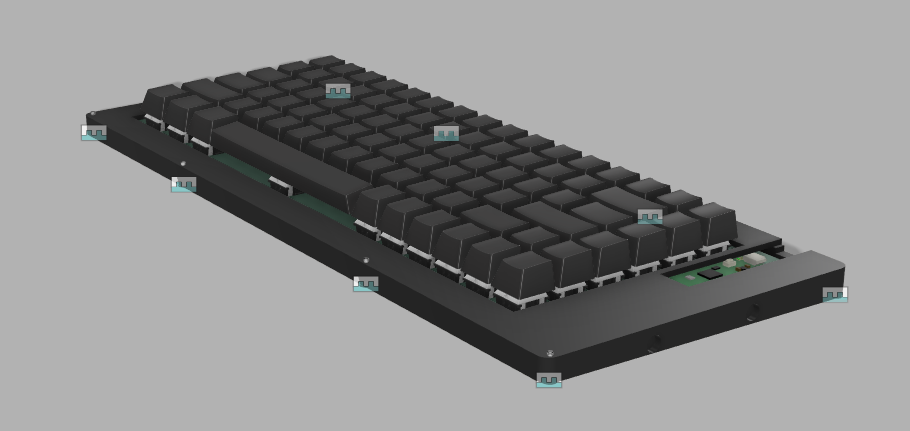
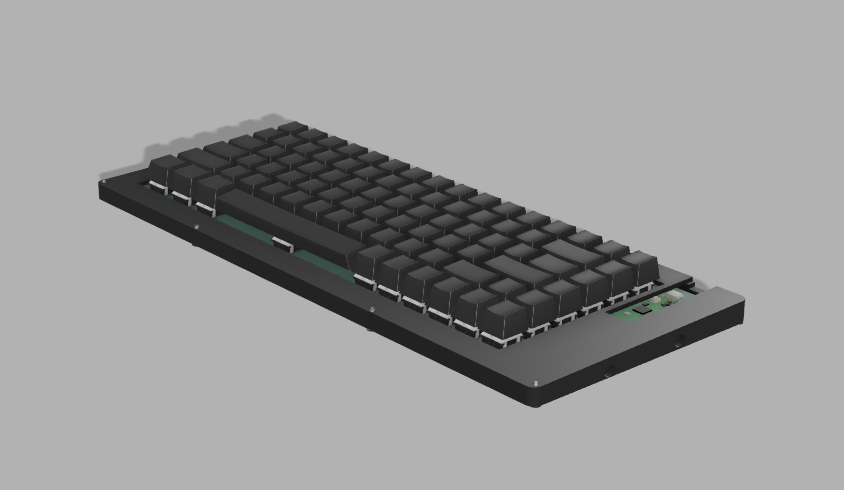
update readme structure and images

Changed region(s): [[0.0924, 0.1206, 0.955, 0.9049]]

diff --git a/README.md b/README.md
@@ -8,50 +8,61 @@ The numpad however is screwed in with the threads in the 3d print. This was not 
 For the magnetic attatchements, two 7mm magnets go in two the 7mm wide holes on BOTH the numpad and the main keyboard and is attatched to each part with some basic super glue. With this the two devices can seamlessly attatch and detach. The two components also have seperate microcontrollers, meaning two different usb connections into my pc. I chose this over having the numpad atatch into the main keyboard for first simple firmware and schematic design but also because it means I have a portable numpad.
 
 
-### Numpad Render
-![NumPad1](resources/numpad1.png)
-![Numpad2](resources/numpad2.png)
+### Renders
 
-### Main Keyboard Render
-![Main1](resources/main1.png)
-![Main2](resources/Main2.png)
+<table>
+  <tr>
+    <td><img src="resources/numpad1.png" width="500" alt="NumPad1"></td>
+    <td><img src="resources/numpad2.png" width="500" alt="Numpad2"></td>
+    <td><img src="resources/main1.png" width="500" alt="Main1"></td>
+  </tr>
+  <tr>
+    <td><img src="resources/Main2.png" width="500" alt="Main2"></td>
+    <td><img src="resources/fullassem.png" width="500" alt="Full Assembled Render"></td>
+  </tr>
+</table>
 
-### Full Assembled Render
-![alt text](resources/fullassem.png)
+### Schematic Designs
 
-### PCB Layout Pad
-![alt text](resources/padlayout.png)
+<table>
+  <tr>
+    <td><img src="resources/padschem.png" width="500" alt="Pad Schematic"></td>
+    <td><img src="resources/mainschem1.png" width="500" alt="Main Schematic 1"></td>
+    <td><img src="resources/mainschem2.png" width="500" alt="Main Schematic 2"></td>
+  </tr>
+</table>
 
-### Pad Schematic
-![alt text](resources/padschem.png)
+### PCBs
 
-### Main PCB Layout
-![alt text](resources/mainlayout.png)
+<table>
+  <tr>
+    <td><img src="resources/padlayout.png" width="500" alt="PCB Layout Pad"></td>
+    <td><img src="resources/mainlayout.png" width="500" alt="Main PCB Layout"></td>
+  </tr>
+</table>
 
-### Main Schematic
-![alt text](resources/mainschem1.png)
-![alt text](resources/mainschem2.png)
+### Orders
 
-### Main PCB Order
-![alt text](resources/mainpcborder.png)
+<table>
+  <tr>
+    <td><img src="resources/mainpcborder.png" width="500" alt="Main PCB Order"></td>
+    <td><img src="resources/PADPCBOrder.png" width="500" alt="PAD PCB Order"></td>
+  </tr>
+</table>
 
-### PAD PCB Order
-![alt text](resources/PADPCBOrder.png)
+## BOM
 
-### BOM
-|Item                                                                                                                            |Variation                                         |Qty|Price (USD)|Reference                                                                                                                                                                                                                                                                                                                                                                                                                                                                                                                                                                                                                            |
-|--------------------------------------------------------------------------------------------------------------------------------|--------------------------------------------------|---|-----------|-------------------------------------------------------------------------------------------------------------------------------------------------------------------------------------------------------------------------------------------------------------------------------------------------------------------------------------------------------------------------------------------------------------------------------------------------------------------------------------------------------------------------------------------------------------------------------------------------------------------------------------|
-|DUROCK Plate Mount Stabilizers V3, Innovative Pre-clipped Stem for Minimum Wire Wobble 2U 6.25U 7U Plate Keyboard Stabilizers V3|Color: V3 BS 4x2u 1x6.25u                         |1  | $7.65     |https://www.aliexpress.com/item/1005006528731543.html?spm=a2g0o.cart.0.0.4c3438dal21w6q&mp=1&pdp_npi=6%40dis%21AUD%21AUD+11.39%21AUD+11.39%21%21AUD+11.39%21%21%21%402103129017855613570607710e1021%2112000037543723481%21ct%21AU%21-1%21%211%210%21&pdp_ext_f=%7B%22cart2PdpParams%22%3A%7B%22pdpBusinessMode%22%3A%22retail%22%7D%7D                                                                                                                                                                                                                                                                                               |
-|110Pcs Outemu Switches for Mechanical Keyboard 3Pin Clicky Linear Tactile Silent Switch RGB LED SMD Gaming Mechan with MX Switch|Color: 110p DustProof Brown                       |1  | $29.54    |https://www.aliexpress.com/item/1005011976942889.html?spm=a2g0o.cart.0.0.4c3438dal21w6q&mp=1&pdp_npi=6%40dis%21AUD%21AUD+43.46%21AUD+3.08%21%21AUD+3.08%21%21%21%402103129017855613570607710e1021%2112000057186154978%21ct%21AU%21-1%21%211%210%21                                                                                                                                                                                                                                                                                                                                                                                   |
-|1N4148W                                                                                                                         |Diode Independent 100V 300mA Surface Mount SOD-123|150| $1.20     |https://www.lcsc.com/product-detail/C917030.html                                                                                                                                                                                                                                                                                                                                                                                                                                                                                                                                                                                     |
-|Original Raspberry Pi Pico Development Board,Pico or Pico H with Pin Header, support MciroPython/C++                            |                                                  |1  | $6.66     |https://www.aliexpress.com/item/1005008714908011.html?spm=a2g0o.cart.0.0.4c3438dal21w6q&mp=1&pdp_npi=6%40dis%21AUD%21AUD+9.78%21AUD+4.79%21%21AUD+4.79%21%21%21%402103129017855613570607710e1021%2112000046359830441%21ct%21AU%21-1%21%211%210%21                                                                                                                                                                                                                                                                                                                                                                                    |
-|SK6812MINI-EA                                                                                                                   |SMD-4P,3.2x2.8mm LED Addressable, Specialty RoHS  |100| $6.45     |https://www.lcsc.com/product-detail/C5378731.html                                                                                                                                                                                                                                                                                                                                                                                                                                                                                                                                                                                    |
-|XVX 119 Keys Black Transparent PC Keycaps 60/68/75/87/98/100 Mechanical Keyboard Key Cap Crystal Clear Keycaps for Gaming/Office|Color: black                                      |1  | $18.69    |https://www.aliexpress.com/item/1005010587844811.html?spm=a2g0o.cart.0.0.675938daAlDdi5&mp=1&pdp_npi=6%40dis%21AUD%21AUD+30.95%21AUD+22.59%21%21AUD+22.59%21%21%21%40210328df17855662600466416e0d9f%2112000052907539638%21ct%21AU%21-1%21%211%210%21                                                                                                                                                                                                                                                                                                                                                                                 |
-|50pcs 5-30mm Anti-slip Black Self Adhesive Round Silicone Rubber Feet Pad Laptops Keyboards Calculators Monitors Anti-skid Pads |Size: OD 15mm, Color: Thick 0.5mm                 |1  | $2.18     |https://www.aliexpress.com/item/1005012365785428.html?spm=a2g0o.productlist.main.9.4de19oaH9oaHuB&algo_pvid=cd5a83e3-1229-4647-a495-e3f16f297cca&algo_exp_id=cd5a83e3-1229-4647-a495-e3f16f297cca-8&pdp_ext_f=%7B%22order%22%3A%2210%22%2C%22eval%22%3A%221%22%2C%22fromPage%22%3A%22search%22%7D&pdp_npi=6%40dis%21AUD%212.31%212.31%21%21%211.60%211.60%21%4021030f4a17855681020947549e1149%2112000058187329086%21sea%21AU%210%21ABX%211%210%21n_tag%3A-29910%3Bd%3Aa8aafb62%3Bm03_new_user%3A-29895&curPageLogUid=XU7lr6tnileh&utparam-url=scene%3Asearch%7Cquery_from%3A%7Cx_object_id%3A1005012365785428%7C_p_origin_prod%3A    |
-|Pad Specific                                                                                                                    |                                                  |   |           |                                                                                                                                                                                                                                                                                                                                                                                                                                                                                                                                                                                                                                     |
-|10pcs/1pc RP2040 Seeed XIAO Raspberry Pi Development Board Module For Arduino/MicroPython/CircuitPython                         |Model Number: 1pc                                 |1  | $7.58     |https://www.aliexpress.com/item/1005008200917480.html?spm=a2g0o.productlist.main.1.6ac5379cKx7D6w&algo_pvid=b6c6bc21-d979-4d64-972b-8bcf0e8f28f7&algo_exp_id=b6c6bc21-d979-4d64-972b-8bcf0e8f28f7-0&pdp_ext_f=%7B%22order%22%3A%22279%22%2C%22eval%22%3A%221%22%2C%22fromPage%22%3A%22search%22%7D&pdp_npi=6%40dis%21AUD%2120.56%2114.39%21%21%2114.23%219.96%21%402101e81117855657959013083e100a%2112000058130698584%21sea%21AU%210%21ABX%211%210%21n_tag%3A-29910%3Bd%3Aa8aafb62%3Bm03_new_user%3A-29895&curPageLogUid=Gb0bLHPVv7Jw&utparam-url=scene%3Asearch%7Cquery_from%3A%7Cx_object_id%3A1005008200917480%7C_p_origin_prod%3A|
-|Additional LCSC Fees                                                                                                            |                                                  |   | $9.15     |                                                                                                                                                                                                                                                                                                                                                                                                                                                                                                                                                                                                                                     |
-|AliExpress Shipping                                                                                                             |                                                  |   | $6.65     |                                                                                                                                                                                                                                                                                                                                                                                                                                                                                                                                                                                                                                     |
-|PCB                                                                                                                             |JLPCB                                             |   | $52.04    |                                                                                                                                                                                                                                                                                                                                                                                                                                                                                                                                                                                                                                     |
-|Total                                                                                                                           |                                                  |   | $147.79   |                                                                                                                                                                                                                                                                                                                                                                                                                                                                                                                                                                                                                                     |
-|                                                                                                                                |                                                  |   |           |                                                                                                                                                                                                                                                                                                                                                                                                                                                                                                                                                                                                                                     |
+|Product                                                                                                                           |Price |Quantity/MOQ|Subtotal|Links|
+|----------------------------------------------------------------------------------------------------------------------------------|------|------------|--------|-----|
+|DUROCK Plate Mount Stabilizers V3, Innovative Pre-clipped Stem for Minimum Wire Wobble 2U 6.25U 7U Plate Keyboard Stabilizers V3 (Color: V3 BS 4x2u 1x6.25u)|$7.65|1|$7.65|[link](https://www.aliexpress.com/item/1005006528731543.html?spm=a2g0o.cart.0.0.4c3438dal21w6q&mp=1&pdp_npi=6%40dis%21AUD%21AUD+11.39%21AUD+11.39%21%21AUD+11.39%21%21%21%402103129017855613570607710e1021%2112000037543723481%21ct%21AU%21-1%21%211%210%21&pdp_ext_f=%7B%22cart2PdpParams%22%3A%7B%22pdpBusinessMode%22%3A%22retail%22%7D%7D)|
+|110Pcs Outemu Switches for Mechanical Keyboard 3Pin Clicky Linear Tactile Silent Switch RGB LED SMD Gaming Mechan with MX Switch (Color: 110p DustProof Brown)|$29.54|1|$29.54|[link](https://www.aliexpress.com/item/1005011976942889.html?spm=a2g0o.cart.0.0.4c3438dal21w6q&mp=1&pdp_npi=6%40dis%21AUD%21AUD+43.46%21AUD+3.08%21%21AUD+3.08%21%21%21%402103129017855613570607710e1021%2112000057186154978%21ct%21AU%21-1%21%211%210%21)|
+|1N4148W (Diode Independent 100V 300mA Surface Mount SOD-123)|$0.008|$1.20 / 150|150|$1.20|[link](https://www.lcsc.com/product-detail/C917030.html)|
+|Original Raspberry Pi Pico Development Board, Pico or Pico H with Pin Header, support MicroPython/C++|$6.66|1|$6.66|[link](https://www.aliexpress.com/item/1005008714908011.html?spm=a2g0o.cart.0.0.4c3438dal21w6q&mp=1&pdp_npi=6%40dis%21AUD%21AUD+9.78%21AUD+4.79%21%21AUD+4.79%21%21%21%402103129017855613570607710e1021%2112000046359830441%21ct%21AU%21-1%21%211%210%21)|
+|SK6812MINI-EA (SMD-4P, 3.2x2.8mm LED Addressable, Specialty RoHS)|$0.0645|100|$6.45|[link](https://www.lcsc.com/product-detail/C5378731.html)|
+|XVX 119 Keys Black Transparent PC Keycaps 60/68/75/87/98/100 Mechanical Keyboard Key Cap Crystal Clear Keycaps for Gaming/Office (Color: black)|$18.69|1|$18.69|[link](https://www.aliexpress.com/item/1005010587844811.html?spm=a2g0o.cart.0.0.675938daAlDdi5&mp=1&pdp_npi=6%40dis%21AUD%21AUD+30.95%21AUD+22.59%21%21AUD+22.59%21%21%21%40210328df17855662600466416e0d9f%2112000052907539638%21ct%21AU%21-1%21%211%210%21)|
+|50pcs 5-30mm Anti-slip Black Self Adhesive Round Silicone Rubber Feet Pad Laptops Keyboards Calculators Monitors Anti-skid Pads (Size: OD 15mm, Color: Thick 0.5mm)|$2.18|1|$2.18|[link](https://www.aliexpress.com/item/1005012365785428.html?spm=a2g0o.productlist.main.9.4de19oaH9oaHuB&algo_pvid=cd5a83e3-1229-4647-a495-e3f16f297cca&algo_exp_id=cd5a83e3-1229-4647-a495-e3f16f297cca-8&pdp_ext_f=%7B%22order%22%3A%2210%22%2C%22eval%22%3A%221%22%2C%22fromPage%22%3A%22search%22%7D&pdp_npi=6%40dis%21AUD%212.31%212.31%21%21%211.60%211.60%21%4021030f4a17855681020947549e1149%2112000058187329086%21sea%21AU%210%21ABX%211%210%21n_tag%3A-29910%3Bd%3Aa8aafb62%3Bm03_new_user%3A-29895&curPageLogUid=XU7lr6tnileh&utparam-url=scene%3Asearch%7Cquery_from%3A%7Cx_object_id%3A1005012365785428%7C_p_origin_prod%3A)|
+|Pad Specific - 10pcs/1pc RP2040 Seeed XIAO Raspberry Pi Development Board Module For Arduino/MicroPython/CircuitPython (Model Number: 1pc)|$7.58|1|$7.58|[link](https://www.aliexpress.com/item/1005008200917480.html?spm=a2g0o.productlist.main.1.6ac5379cKx7D6w&algo_pvid=b6c6bc21-d979-4d64-972b-8bcf0e8f28f7&algo_exp_id=b6c6bc21-d979-4d64-972b-8bcf0e8f28f7-0&pdp_ext_f=%7B%22order%22%3A%22279%22%2C%22eval%22%3A%221%22%2C%22fromPage%22%3A%22search%22%7D&pdp_npi=6%40dis%21AUD%2120.56%2114.39%21%21%2114.23%219.96%21%402101e81117855657959013083e100a%2112000058130698584%21sea%21AU%210%21ABX%211%210%21n_tag%3A-29910%3Bd%3Aa8aafb62%3Bm03_new_user%3A-29895&curPageLogUid=Gb0bLHPVv7Jw&utparam-url=scene%3Asearch%7Cquery_from%3A%7Cx_object_id%3A1005008200917480%7C_p_origin_prod%3A)|
+|Additional LCSC Fees|||  $9.15||
+|AliExpress Shipping|||    $6.65||
+|PCB (JLCPCB)|||        $52.04||
+|Total|||                 $147.79||

diff --git a/Firmware/blunt_keyboardmain/readme.md b/Firmware/blunt_keyboardmain/readme.md
@@ -1,4 +1,6 @@
 # blunt_keyboardmain
+> This README was automatically generated by QMK
+
 
 * Keyboard Maintainer: [Jenish Pathak](https://github.com/jphwba)
 * Hardware Supported: RP2040 (Raspberry Pi Pico)

diff --git a/Firmware/blunt_keyboardpad/readme.md b/Firmware/blunt_keyboardpad/readme.md
@@ -1,6 +1,5 @@
 # blunt_keyboardpad
-
-![blunt_keyboardpad](imgur.com image replace me!)
+> This README was automatically generated by QMK
 
 A short description of the keyboard/project
 
